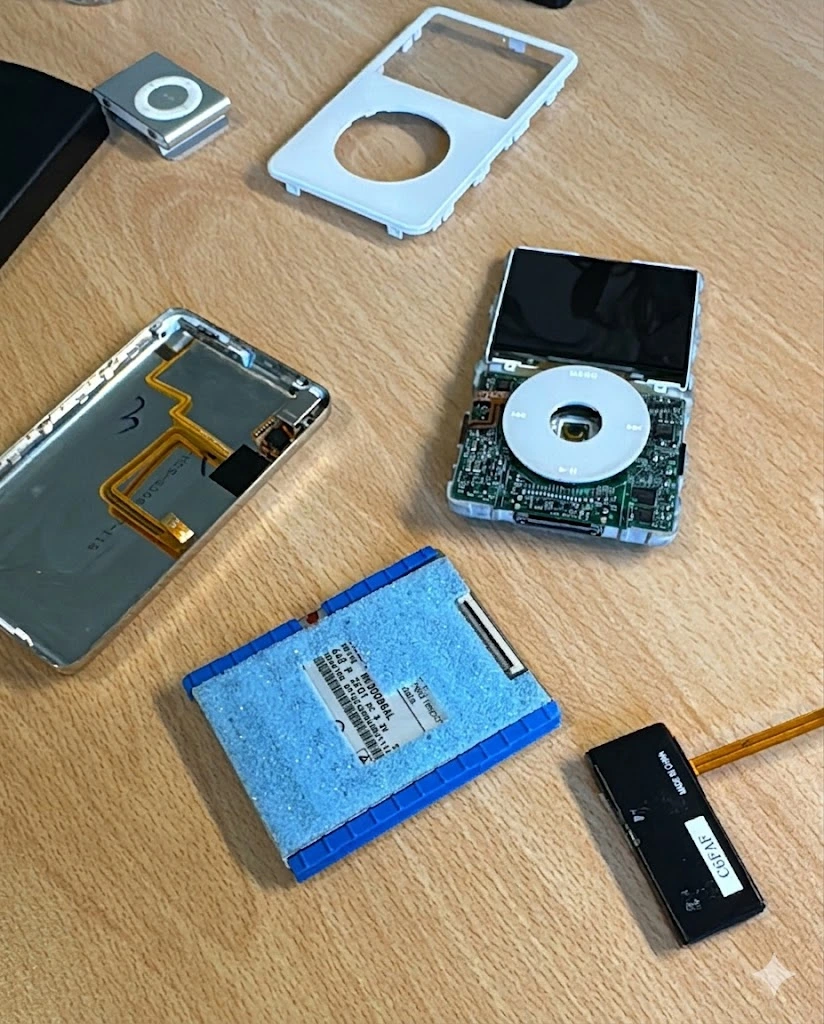
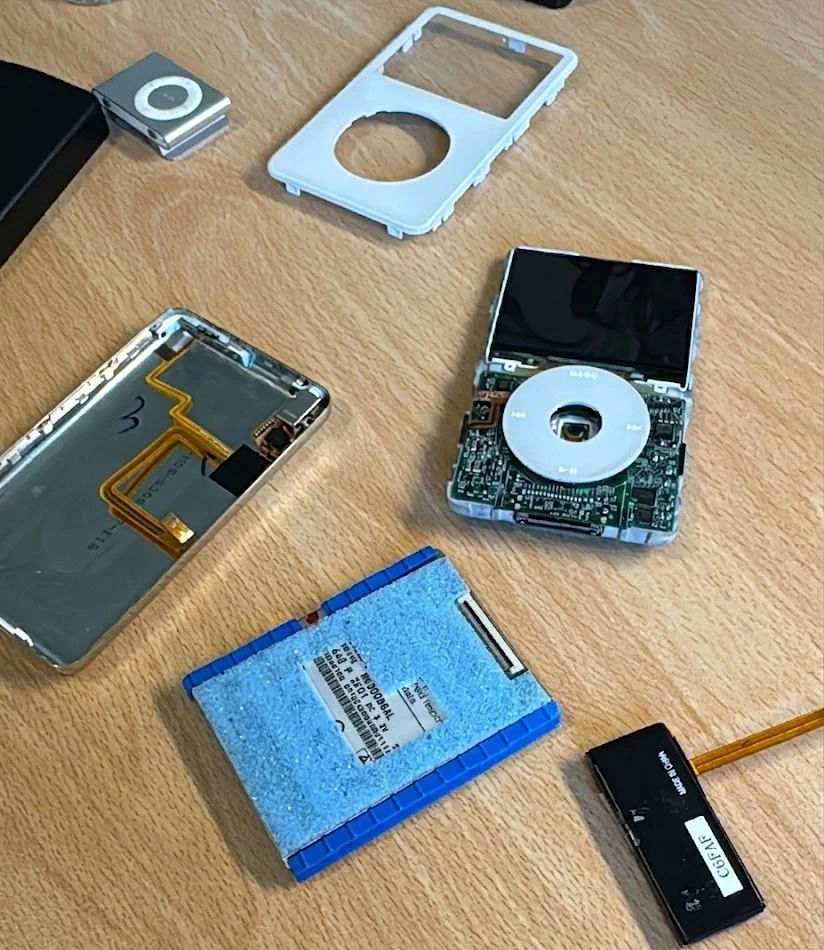
#

diff --git a/_posts/2019-10-01-MachineTraction.md b/_posts/2019-10-01-MachineTraction.md
@@ -1,0 +1,144 @@
+---
+title: Machine de traction portative
+date: 2019-10-01 00:00:00 +0000
+description: Conception et fabrication d'une machine de traction portative adaptée à la tomographie aux rayons X.
+categories: [CAO disponible, Études]
+tags: []     # TAG names should always be lowercase
+math: true
+image:
+  path: /assets/machine_traction/tractiontitre.webp
+---
+
+# Contexte
+
+En science des matériaux, pour comprendre pourquoi un matériau casse, on utilise souvent un tomographe (un scanner à rayons X). Le problème est que pour voir l'intérieur d'une pièce pendant qu'on tire dessus, il faut une machine de traction capable de rentrer à l'intérieur du scanner mais également qui soit transparente aux rayons X.
+
+L'objectif de ce projet de fin d'étude était de concevoir une machine miniature capable de :
+
+- Développer une force de traction de 5 000 N.
+- Une course de 10 mm
+- Tenir dans un cylindre de la taille d'une bouteille d'eau de 1L.
+- Être "transparente" aux rayons X pour ne pas masquer l'échantillon.
+- La capacité de tester des éprouvettes plates (0,8 mm à 2 mm d'épaisseur) et cylindriques (4 mm de diamètre).  
+
+# Théorie
+
+## Capteur de force
+
+L'essai de traction consiste à mesurer le degré de résistance à la rupture d'un matériau et son comportement élastique en appliquant un effort uniaxial.
+
+Il permet de déterminer des paramètres clés comme le module de Young ($E$), la limite d'élasticité ($R_{e}$) et la résistance à la traction ($R_{m}$).  La mécanique de notre machine repose sur des formules classiques :
+- Contrainte : $\sigma=\frac{F}{S_{0}}$   
+- Module de Young : $E=\frac{F}{S}*\frac{1}{\frac{\Delta L}{L_{0}}}$   
+
+Pour mesurer l'effort appliqué, nous avons sélectionné un capteur de force en forme de S (type CZL301), capable de supporter 5000 N (avec une surcharge jusqu'à 7500 N). Ce capteur utilise un pont de Wheatstone composé de jauges de contrainte. La variation de tension, qui permet de déduire la force, se calcule ainsi:  
+
+$$V_{G}=U*(\frac{R_{2}}{R_{1}+R_{2}}-\frac{R_{4}}{R_{3}+R_{4}})$$
+
+Son principal inconvénient était son grand encombrement axial. Pour pallier ce problème et optimiser l'espace, nous avons utilisé le corps du capteur lui-même pour réaliser la fonction de glissière, le contraignant ainsi à un seul degré de liberté (translation).  
+
+
+![Desktop View](/assets/machine_traction/capteurdeforce.webp)
+_Capteur de force en S utilisé comme glissière linéaire_
+
+## Eprouvettes
+
+Pour que les résultats d'un essai de traction soient exploitables et comparables, on ne peut pas tester n'importe quelle forme. Il est impératif d'utiliser des éprouvettes normalisées. Pour ce projet, la machine a été dimensionnée pour accueillir deux géométries spécifiques, en suivant les recommandations de la norme ISO 6892-1.
+
+- Éprouvettes plates : Les épaisseurs compatibles avec notre machine de traction iront de 0,8 mm à 2 mm.
+
+![Desktop View](/assets/machine_traction/eprouvettesplate.webp)
+
+- Éprouvettes cylindriques : l’éprouvette cylindrique retenue aura un diamètre de 4 mm. Un diamètre supérieur aurait un encombrement trop important en hauteur. Un diamètre plus faible serait difficile à usiner dans certaines matières.
+
+![Desktop View](/assets/machine_traction/eprouvettescylindrique.webp)
+
+
+## Motorisation & transmission
+
+**Motorisation :** Pour piloter la traction de manière constante, nous avons optés pour un moteur pas à pas couplé à un réducteur épicycloïdal. Cela nous permetra d'obtenir une excellente résolution de déplacement tout en ayant un couple suffisant (4,71 N.m)
+
+**Transmission :** Une tige filetée M12 transmet l'effort au capteur. Une butée à billes est intégrée pour encaisser les efforts axiaux importants à la place du moteur, qui n'est absolument pas dimentionné pour.
+
+## Chambre de traction
+
+Dans une machine de traction conventionnelle, la partie supérieure est fixée à un bâti rigide tandis que la partie inférieure, motorisée, assure le déplacement. Ce type d'architecture "en portique" est impossible à intégrer dans un tomographe en raison de l'encombrement extrême.
+
+![Desktop View](/assets/machine_traction/machinesdetractioncommerce.webp)
+_Machine de traction conventionnelle du commerce_
+
+Pour résoudre ce problème, nous avons remplacé le bâti traditionnel par un tube en PMMA usiné par nos soin. Ce tube remplit deux fonctions :
+
+- Transmission d'effort : Il referme la boucle de force en reliant les deux extrémités de la machine. Pendant que le moteur tire sur l'éprouvette, le tube encaisse l'effort en compression.
+
+- Transparence aux rayons X : Le PMMA a été choisi pour sa faible densité. Il laisse passer le flux de photons sans perturber l'image, permettant d'observer la matière au cœur du tube comme s'il était invisible.
+
+# Simulation numérique
+
+Avant de passer à la fabrication, il est crucial de valider le dimensionnement de chaque composant. Nous avons utilisé la simulation en déformation statique pour soumettre les éléments critiques (éprouvettes, tube PMMA, mors, etc) aux contraintes maximales de l'essai (5 000 N). L'objectif est double : s'assurer que la machine ne rompra pas et vérifier que les micro-déformations de la structure ne viendront pas fausser la précision de nos mesures de traction.
+
+## L'importance de la convergence de maillage
+
+Pour obtenir des résultats fiables en simulation, le choix du maillage est déterminant. Plus le maillage est fin, plus le calcul est précis mais encore faut t'il qu'il converge. Nous avons donc réalisé une étude de convergence de maillage : en augmentant progressivement le nombre d'éléments jusqu'à ce que les résultats de contraintes et de déplacements ne varient plus. Cette étape est indispensable pour garantir que les résultats obtenus ne dépendent pas du découpage informatique, mais reflètent bien la réalité physique du montage.
+
+![Desktop View](/assets/machine_traction/convergencemaillage.webp)
+_Convergence de maillage sur l'éprouvette plate_
+
+## Eprouvettes
+
+Les simulations sous une charge de 5 000 N confirment le bon dimensionnement de nos échantillons :
+
+- Éprouvettes plates : Elles atteignent toutes leur point de rupture. C’est un excellent point pour le projet, car cela permettra d'observer l'intégralité du processus de dégradation et de cassure du matériau dans le tomographe.
+
+- Éprouvette cylindrique : Plus résistante, elle entre dans le domaine plastique (déformation irréversible) mais ne parvient pas jusqu'à la rupture sous cet effort.
+
+- Course mécanique : Avec une élongation prévue bien inférieure à 10 mm, la course maximale de la machine est largement suffisante pour accompagner la déformation de tous les types d'éprouvettes jusqu'à la fin de l'essai.
+
+![Desktop View](/assets/machine_traction/simulationEprouvette.webp)
+
+
+## Optimisation du cylindre PMMA
+
+Le tube en PMMA est l’élément le plus critique de la structure : il doit être assez fin pour ne pas être trop encombrant, mais assez rigide pour supporter 5 000 N en compression sans fausser la mesure de traction.
+
+L'enjeu est de limiter l'accourcissement du tube. Nos simulations montrent qu'avec un diamètre externe de 50 mm (épaisseur de 7,5 mm), le tube s'écrase de 0,08 mm. Comparé aux 0,14 mm de déformation de l'éprouvette la plus fine, cela générerait une erreur de mesure de 54%.
+
+Choix technique :
+Pour garantir la précision de l'essai, nous avons opté pour un diamètre externe de 70 mm. Cette configuration réduit le déplacement structurel à seulement 0,03 mm. Cette déformation résiduelle, est prédictible et peut être compensée logiciellement pour obtenir une courbe de traction exacte en prenant en compte l'écrasement du PMMA.
+
+![Desktop View](/assets/machine_traction/simulationPMMA.webp)
+![Desktop View](/assets/machine_traction/simulationsPMMA.webp)
+
+# Mise en pratique
+
+## Usinage
+
+![Desktop View](/assets/machine_traction/eprouvettesplate2.webp)
+_Poinçonnage de trois éprouvettes plates ; les éprouvettes seront ensuite limées afin d’éviter toute amorce de rupture._
+
+![Desktop View](/assets/machine_traction/poinçonnage.webp)
+_Programme de poinçonnage des éprouvettes plates_
+
+![Desktop View](/assets/machine_traction/eprouvettescylindrique2.webp)
+_Usinage d'une éprouvette cylindrique au tour traditionnel_
+
+![Desktop View](/assets/machine_traction/vueeclatee.webp)
+_Vue éclatée de l'assemblage complet_
+
+![Desktop View](/assets/machine_traction/piecesusinees.webp)
+_Vue éclatée de l'assemblage complet_
+
+# Résultat 
+
+Les tests finaux, illustrés dans la vidéo ci-dessous, confirment la robustesse de la conception.
+
+![Desktop View](/assets/machine_traction/tractionvideo.gif)
+_Essai de traction réel sur une éprouvette acier de 2mm_
+
+Le prototype actuel constitue une plateforme robuste et prête pour les étapes suivantes. La suite du développement, qui sera reprise par le prochain groupe d'élèves, se concentrera sur :
+
+- L'intégration électronique : Conception et fabrication d'un boîtier sur mesure pour regrouper proprement les cartes de commande et l'alimentation.
+
+- Mise en pratique : Réalisation des premiers essais réels in situ directement à l'intérieur du tomographe pour valider l'acquisition d'images sous contrainte.
+
+Projet réalisé par : J. Gillet & C. Le Chalony.
